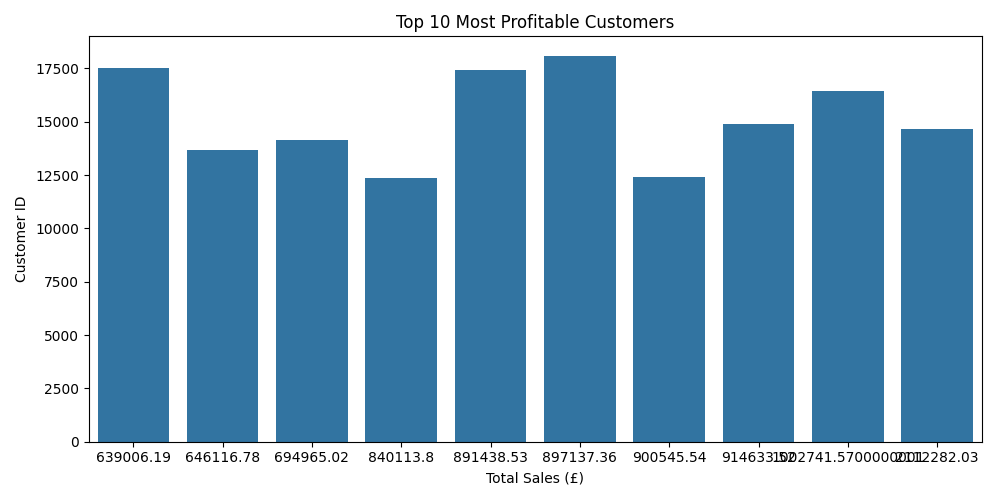
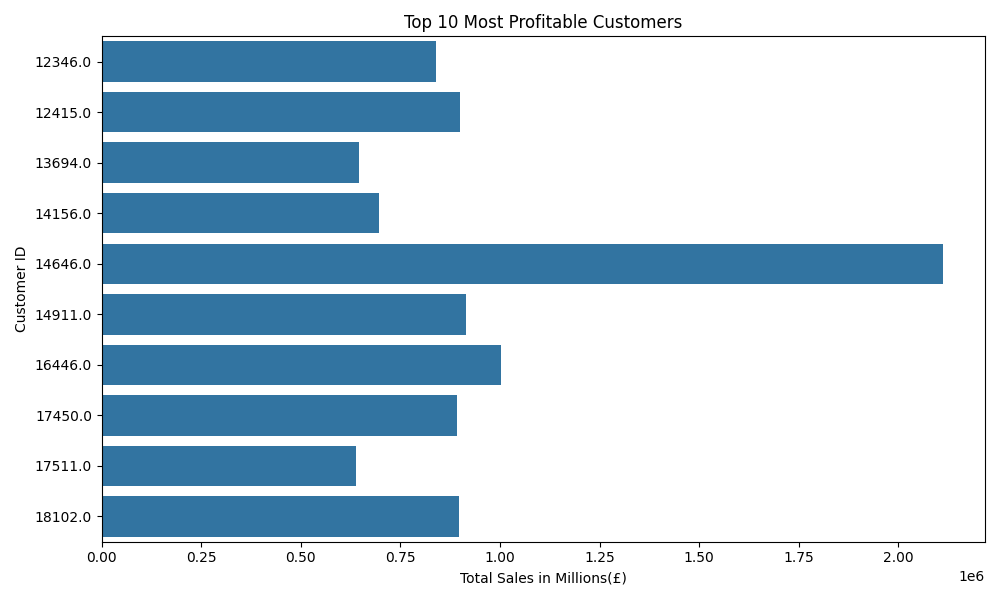
Finalized

diff --git a/ecommerce_analysis.py b/ecommerce_analysis.py
@@ -48,10 +48,6 @@ plt.tight_layout()
 plt.savefig("plots/monthly_sales_trend.png")
 plt.show()
 
-
-#QUESTION 2: Most Frequently Purchased Products
-# group products and sum quantities
-
 #QUESTION 2: Most Frequently Purchased Products
 
 # group products and sum total quantity sold
@@ -127,11 +123,20 @@ top10_customers = customer_sales.head(10).reset_index()
 top10_customers.columns = ["CustomerNo", "TotalSales"]
 
 # visualize top 10
-plt.figure(figsize=(10, 5))
-sns.barplot(data=top10_customers, x="TotalSales", y="CustomerNo")
+# sort TOP customers by TotalSales (highest → lowest)
+top10_customers = top10_customers.sort_values("TotalSales", ascending=False)
+
+plt.figure(figsize=(10, 6))
+sns.barplot(
+    data=top10_customers,
+    x="TotalSales",
+    y="CustomerNo",
+    orient="h"
+)
 plt.title("Top 10 Most Profitable Customers")
-plt.xlabel("Total Sales (£)")
+plt.xlabel("Total Sales in Millions(£)")
 plt.ylabel("Customer ID")
 plt.tight_layout()
 plt.savefig("plots/top_customers.png")
 plt.show()
+
